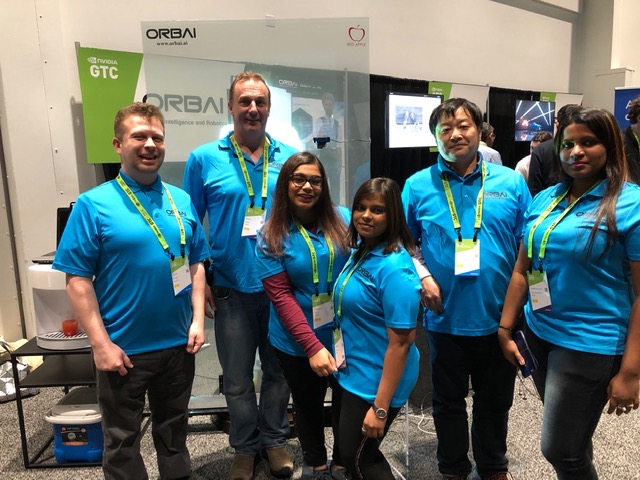
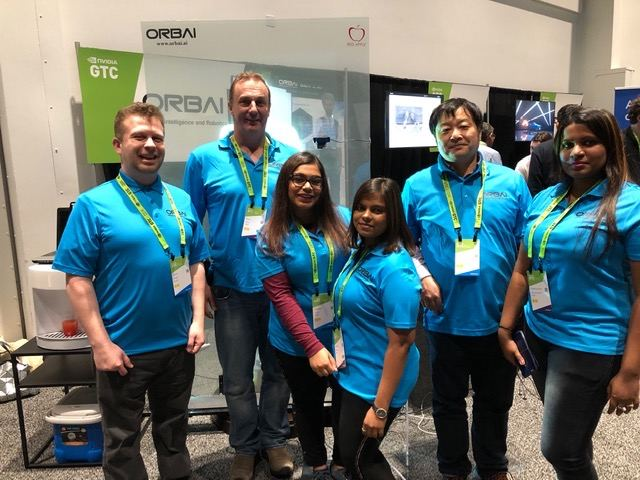
Add files via upload

diff --git a/index.html b/index.html
@@ -7,7 +7,7 @@
 <meta name="description" content="Portfolio of Sindhukumari Parameswaran, Python Developer and AI Engineer.">
 <link rel="preconnect" href="https://fonts.googleapis.com">
 <link rel="preconnect" href="https://fonts.gstatic.com" crossorigin>
-<link href="https://fonts.googleapis.com/css2?family=JetBrains+Mono:wght@400;500;600;700&family=Space+Grotesk:wght@400;500;600;700&family=Inter:wght@300;400;500;600&display=swap" rel="stylesheet">
+<link href="https://fonts.googleapis.com/css2?family=JetBrains+Mono:wght@400;500;600;700&family=Inter:wght@300;400;500;600;700&display=swap" rel="stylesheet">
 <style>
   :root{
     --bg: #ffffff;
@@ -22,13 +22,15 @@
     --line: rgba(11,15,25,0.10);
     --line-strong: rgba(11,15,25,0.18);
     --mono: 'JetBrains Mono', ui-monospace, monospace;
-    --serif: 'Inter', -apple-system, sans-serif;
-    --display: 'Space Grotesk', 'JetBrains Mono', sans-serif;
-    --maxw: 920px;
+    --serif: 'Inter', -apple-system, BlinkMacSystemFont, sans-serif;
+    --display: 'Inter', -apple-system, BlinkMacSystemFont, sans-serif;
+    --maxw: 1440px;
   }
 
   *{box-sizing:border-box;}
   html{scroll-behavior:smooth;}
+  html, body{overflow-x:hidden; max-width:100%;}
+  img, canvas, svg{max-width:100%;}
   body{
     margin:0;
     background:var(--bg);
@@ -266,7 +268,10 @@
     position:relative; display:flex; flex-direction:column;
   }
   .interest-card .ic-canvas-wrap{position:relative; height:150px;}
+  .interest-card .ic-canvas-wrap .ic-photo{position:absolute; inset:0; width:100%; height:100%; object-fit:cover; filter:saturate(0.85) contrast(1.05) brightness(0.75);}
+  .interest-card .ic-canvas-wrap .ic-photo-overlay{position:absolute; inset:0; background:linear-gradient(180deg, rgba(11,15,25,0.15) 0%, rgba(11,15,25,0.65) 100%);}
   .interest-card canvas{position:absolute; inset:0; width:100%; height:100%; display:block;}
+  .interest-card .ic-credit{position:absolute; right:8px; bottom:6px; font-family:var(--mono); font-size:9.5px; color:rgba(255,255,255,0.55); z-index:2;}
   .interest-card .ic-body{padding:18px 20px 22px; position:relative; z-index:1;}
   .interest-card .ic-tag{font-family:var(--mono); font-size:11px; letter-spacing:0.08em; text-transform:uppercase; color:var(--blue-bright); display:block; margin-bottom:6px;}
   .interest-card h3{font-family:var(--display); font-weight:600; font-size:18px; margin:0 0 8px; color:#fff;}
@@ -355,7 +360,7 @@
         <span class="eyebrow">Python Developer — AI Engineer</span>
         <h1>Sindhukumari Parameswaran</h1>
         <p class="hero-sub">I build systems that turn signals into understanding — from spiking neural networks to on-device translation.</p>
-        <div class="status-line"><span class="prompt">&gt;</span>currently building Live Chat Translator — an on-device chat translation overlay</div>
+        <div class="status-line"><span class="prompt">&gt;</span>learning Gen AI, RAG, Agentic AI, MCP</div>
         <div class="cta-row">
           <a href="#work" class="btn btn-primary">See the work</a>
           <a href="#contact" class="btn btn-white">Get in touch</a>
@@ -366,7 +371,7 @@
         <div class="hero-portrait-ring" aria-hidden="true"></div>
         <div class="hero-portrait-sat" aria-hidden="true"></div>
         <div class="hero-portrait">
-          <img src="images/profile_pic.png" alt="Portrait of Sindhukumari Parameswaran">
+          <img src="images/profile-pic.jpg" alt="Portrait of Sindhukumari Parameswaran">
         </div>
       </div>
     </div>
@@ -376,7 +381,6 @@
 <section id="about">
   <div class="wrap">
     <div class="section-head reveal">
-      <span class="eyebrow">01</span>
       <h2>About</h2>
     </div>
     <div class="about-grid reveal">
@@ -385,17 +389,18 @@
         <span class="mg-label">SK</span>
       </div>
       <div class="about-bio">
-        <p>Six-plus years of shipping software — backend APIs, full-stack products, and trained models — across a handful of companies since I graduated in 2015. I currently work as a Python developer and AI engineer, where the job usually means moving between plain Python services and the ML systems sitting behind them.</p>
-        <p>I'm drawn to problems where a signal has to be turned into something a person can act on: a spike pattern into a diagnosis, a sentence into another language, a resume into a match. Most of what I build sits at that translation layer.</p>
+        <p>5+ years of experience across the full software development lifecycle — requirements gathering, design, development, implementation, and maintenance — using Python and Java. Strong hands-on experience with Django and Flask, RESTful APIs, SQL and relational databases (MySQL, Postgres), and AWS (EC2, S3). I've built and maintained CI/CD pipelines end to end, integrating Git to enforce code quality and automate releases.</p>
+        <p>Right now I'm moving deeper into Gen AI, RAG, Agent AI, Agentic AI, and MCP, alongside ML, DL, and data engineering — extending the same AI/ML foundation from NeuroCAD and the other projects below into where the field is heading next.</p>
         <ul class="facts">
           <li>Role <span>Python Developer &amp; AI Engineer, Neurolabs Innovations Pvt Ltd</span></li>
-          <li>Focus <span>Python, ML/AI systems, full-stack development</span></li>
+          <li>Focus <span>Gen AI, RAG, Agentic AI, MCP, ML/DL, Data Engineering</span></li>
           <li>Education <span>B.Tech, Information Technology — Vivekanandha College of Engineering for Women (2011–2015)</span></li>
+          <li>Achievement <span>Traveled to the USA to present NeuroCAD at NVIDIA's GTC Conference</span></li>
         </ul>
       </div>
     </div>
     <div class="workshot reveal">
-      <img src="images/coverpic_laptop.png" alt="Sindhukumari working at her desk">
+      <img src="images/workshot.jpg" alt="Sindhukumari working at her desk">
       <div class="workshot-overlay"></div>
       <span class="workshot-caption">// at the desk, mid-build</span>
     </div>
@@ -406,7 +411,6 @@
   <canvas id="exp-canvas" class="faint-canvas" aria-hidden="true"></canvas>
   <div class="wrap">
     <div class="section-head reveal">
-      <span class="eyebrow">02</span>
       <h2>Experience</h2>
     </div>
     <div class="reveal">
@@ -453,7 +457,6 @@
 <section id="work">
   <div class="wrap">
     <div class="section-head reveal">
-      <span class="eyebrow">03</span>
       <h2>Work</h2>
     </div>
     <p class="reveal" style="color:var(--ink-dim); margin-top:-20px; margin-bottom:34px; max-width:560px;">Every project below is a pulse on the same line — some shipped to production, one still open-source and growing.</p>
@@ -500,7 +503,6 @@
   <canvas id="skills-canvas" class="faint-canvas" aria-hidden="true"></canvas>
   <div class="wrap">
     <div class="section-head reveal">
-      <span class="eyebrow">04</span>
       <h2>Skills
         <svg width="18" height="18" viewBox="0 0 24 24" fill="none" stroke="currentColor" stroke-width="1.6" stroke-linecap="round" stroke-linejoin="round" aria-hidden="true" style="color:var(--blue); margin-left:2px;">
           <rect x="5" y="9" width="14" height="11" rx="2"></rect>
@@ -538,6 +540,19 @@
           <span class="chip">CI/CD</span>
         </div>
       </div>
+      <div>
+        <span class="skill-group-label">Currently Exploring</span>
+        <div class="chips">
+          <span class="chip">Gen AI</span>
+          <span class="chip">RAG</span>
+          <span class="chip">Agent AI</span>
+          <span class="chip">Agentic AI</span>
+          <span class="chip">MCP</span>
+          <span class="chip">ML</span>
+          <span class="chip">DL</span>
+          <span class="chip">Data Engineering</span>
+        </div>
+      </div>
     </div>
   </div>
 </section>
@@ -545,7 +560,6 @@
 <section id="gallery">
   <div class="wrap">
     <div class="section-head reveal">
-      <span class="eyebrow">05</span>
       <h2>NVIDIA GTC Conference — March 2019</h2>
     </div>
   </div>
@@ -564,7 +578,6 @@
 <section id="interests">
   <div class="wrap">
     <div class="section-head reveal">
-      <span class="eyebrow">06</span>
       <h2>Interests &amp; What's Next</h2>
     </div>
     <p class="interests-lead reveal">The throughline in my work is turning a signal into something that acts. Here's where I want to take that next.</p>
@@ -583,6 +596,9 @@
 
       <div class="interest-card">
         <div class="ic-canvas-wrap">
+          <img class="ic-photo" src="https://commons.wikimedia.org/wiki/Special:FilePath/UR16e_robot_arm.png" alt="Collaborative robot arm">
+          <div class="ic-photo-overlay"></div>
+          <span class="ic-credit">Universal Robots · CC BY-SA</span>
           <div class="gear-wrap">
             <svg class="gear gear-a" width="70" height="70" viewBox="0 0 24 24" fill="currentColor">
               <path d="M12 8.5a3.5 3.5 0 100 7 3.5 3.5 0 000-7zm9.4 2.6l-1.9-.3a7.6 7.6 0 00-.6-1.4l1.1-1.6a.6.6 0 00-.1-.8l-1.4-1.4a.6.6 0 00-.8-.1l-1.6 1.1a7.6 7.6 0 00-1.4-.6l-.3-1.9a.6.6 0 00-.6-.5h-2a.6.6 0 00-.6.5l-.3 1.9a7.6 7.6 0 00-1.4.6L7.9 5a.6.6 0 00-.8.1L5.7 6.5a.6.6 0 00-.1.8l1.1 1.6a7.6 7.6 0 00-.6 1.4l-1.9.3a.6.6 0 00-.5.6v2a.6.6 0 00.5.6l1.9.3c.15.5.35 1 .6 1.4l-1.1 1.6a.6.6 0 00.1.8l1.4 1.4a.6.6 0 00.8.1l1.6-1.1c.45.25.9.45 1.4.6l.3 1.9a.6.6 0 00.6.5h2a.6.6 0 00.6-.5l.3-1.9c.5-.15 1-.35 1.4-.6l1.6 1.1a.6.6 0 00.8-.1l1.4-1.4a.6.6 0 00.1-.8l-1.1-1.6c.25-.45.45-.9.6-1.4l1.9-.3a.6.6 0 00.5-.6v-2a.6.6 0 00-.5-.6z"/>
@@ -600,7 +616,7 @@
       </div>
 
       <div class="interest-card">
-        <div class="ic-canvas-wrap"><canvas id="ic-space-canvas"></canvas></div>
+        <div class="ic-canvas-wrap"><img class="ic-photo" src="https://commons.wikimedia.org/wiki/Special:FilePath/NASA_Neutral_Buoyancy_Laboratory_Astronaut_Training.jpg" alt="NASA astronaut training in the Neutral Buoyancy Laboratory"><div class="ic-photo-overlay"></div><span class="ic-credit">NASA · Public Domain</span><canvas id="ic-space-canvas"></canvas></div>
         <div class="ic-body">
           <span class="ic-tag">Space Systems</span>
           <h3>Intelligence without a ground link</h3>
@@ -620,6 +636,9 @@
 
       <div class="interest-card">
         <div class="ic-canvas-wrap">
+          <img class="ic-photo" src="https://commons.wikimedia.org/wiki/Special:FilePath/UR16e_robot_arm.png" alt="Collaborative robot arm">
+          <div class="ic-photo-overlay"></div>
+          <span class="ic-credit">Universal Robots · CC BY-SA</span>
           <div class="gear-wrap">
             <svg class="gear gear-a" width="70" height="70" viewBox="0 0 24 24" fill="currentColor">
               <path d="M12 8.5a3.5 3.5 0 100 7 3.5 3.5 0 000-7zm9.4 2.6l-1.9-.3a7.6 7.6 0 00-.6-1.4l1.1-1.6a.6.6 0 00-.1-.8l-1.4-1.4a.6.6 0 00-.8-.1l-1.6 1.1a7.6 7.6 0 00-1.4-.6l-.3-1.9a.6.6 0 00-.6-.5h-2a.6.6 0 00-.6.5l-.3 1.9a7.6 7.6 0 00-1.4.6L7.9 5a.6.6 0 00-.8.1L5.7 6.5a.6.6 0 00-.1.8l1.1 1.6a7.6 7.6 0 00-.6 1.4l-1.9.3a.6.6 0 00-.5.6v2a.6.6 0 00.5.6l1.9.3c.15.5.35 1 .6 1.4l-1.1 1.6a.6.6 0 00.1.8l1.4 1.4a.6.6 0 00.8.1l1.6-1.1c.45.25.9.45 1.4.6l.3 1.9a.6.6 0 00.6.5h2a.6.6 0 00.6-.5l.3-1.9c.5-.15 1-.35 1.4-.6l1.6 1.1a.6.6 0 00.8-.1l1.4-1.4a.6.6 0 00.1-.8l-1.1-1.6c.25-.45.45-.9.6-1.4l1.9-.3a.6.6 0 00.5-.6v-2a.6.6 0 00-.5-.6z"/>
@@ -637,7 +656,7 @@
       </div>
 
       <div class="interest-card">
-        <div class="ic-canvas-wrap"><canvas id="ic-space-canvas-2"></canvas></div>
+        <div class="ic-canvas-wrap"><img class="ic-photo" src="https://commons.wikimedia.org/wiki/Special:FilePath/NASA_Neutral_Buoyancy_Laboratory_Astronaut_Training.jpg" alt="NASA astronaut training in the Neutral Buoyancy Laboratory"><div class="ic-photo-overlay"></div><span class="ic-credit">NASA · Public Domain</span><canvas id="ic-space-canvas-2"></canvas></div>
         <div class="ic-body">
           <span class="ic-tag">Space Systems</span>
           <h3>Intelligence without a ground link</h3>
@@ -651,7 +670,6 @@
 <section id="contact">
   <div class="wrap">
     <div class="section-head reveal">
-      <span class="eyebrow">07</span>
       <h2>Contact
         <svg width="18" height="18" viewBox="0 0 24 24" fill="none" stroke="currentColor" stroke-width="1.6" stroke-linecap="round" stroke-linejoin="round" aria-hidden="true" style="color:var(--blue); margin-left:2px;">
           <ellipse cx="12" cy="12" rx="10" ry="4.2" transform="rotate(-20 12 12)"></ellipse>
@@ -690,6 +708,9 @@
     let w, h, dpr;
     let nodes = [];
     let pulses = [];
+    const hotColor = opts.hotColor || null;
+    const hotShare = opts.hotShare || 0.16;
+    const glow = !!opts.glow;
 
     function resize(){
       const rect = canvas.parentElement.getBoundingClientRect();
@@ -705,13 +726,17 @@
       nodes = [];
       const count = opts.nodeCount;
       for(let i=0;i<count;i++){
+        const isHot = hotColor && Math.random() < hotShare;
         nodes.push({
           x: Math.random()*w,
           y: Math.random()*h,
           vx: (Math.random()-0.5)*opts.speed,
           vy: (Math.random()-0.5)*opts.speed,
-          r: 1.6 + Math.random()*1.8,
-          glow: 0
+          r: (isHot ? 2.1 : 1.6) + Math.random()*1.8,
+          glow: 0,
+          hot: isHot,
+          phase: Math.random()*Math.PI*2,
+          idleSpeed: 0.5 + Math.random()*0.7
         });
       }
       pulses = [];
@@ -739,6 +764,7 @@
     function draw(ts){
       ctx.clearRect(0,0,w,h);
       const links = nearestLinks();
+      const t = ts/1000;
 
       for(const n of nodes){
         n.x += n.vx; n.y += n.vy;
@@ -747,15 +773,17 @@
         if(n.glow > 0) n.glow -= 0.02;
       }
 
-      ctx.lineWidth = 1;
       const alphaScale = opts.lineAlphaScale || 0.5;
       for(const l of links){
         const a = nodes[l.a], b = nodes[l.b];
         const alpha = (1 - l.dist/opts.linkDist) * alphaScale;
         ctx.strokeStyle = opts.lineColor.replace('ALPHA', alpha.toFixed(3));
+        ctx.lineWidth = glow ? 1.3 : 1;
+        if(glow){ ctx.shadowBlur = 5; ctx.shadowColor = opts.lineColor.replace('ALPHA','0.5'); }
         ctx.beginPath();
         ctx.moveTo(a.x,a.y); ctx.lineTo(b.x,b.y);
         ctx.stroke();
+        if(glow) ctx.shadowBlur = 0;
       }
 
       if(!reduceMotion && ts - lastSpawn > opts.pulseRate){
@@ -769,22 +797,31 @@
         p.t += p.speed;
         const x = a.x + (b.x-a.x)*p.t;
         const y = a.y + (b.y-a.y)*p.t;
+        if(glow){ ctx.shadowBlur = 9; ctx.shadowColor = opts.pulseColor; }
         ctx.beginPath();
-        ctx.arc(x,y,2.2,0,Math.PI*2);
+        ctx.arc(x,y,2.4,0,Math.PI*2);
         ctx.fillStyle = opts.pulseColor;
         ctx.fill();
+        if(glow) ctx.shadowBlur = 0;
         if(p.t >= 1){ b.glow = 1; }
       });
       pulses = pulses.filter(p=>p.t < 1);
 
       for(const n of nodes){
-        const r = n.r + n.glow*2.2;
+        const idlePulse = n.hot ? (0.55 + 0.45*Math.sin(t*n.idleSpeed + n.phase)) : 0;
+        const r = n.r + n.glow*2.2 + (n.hot ? idlePulse*1.4 : 0);
+        const color = n.glow > 0 ? opts.pulseColor : (n.hot ? hotColor : opts.nodeColor);
+        if(glow){
+          ctx.shadowBlur = n.hot ? 12+idlePulse*8 : 4;
+          ctx.shadowColor = color;
+        }
         ctx.beginPath();
         ctx.arc(n.x,n.y,r,0,Math.PI*2);
-        ctx.fillStyle = n.glow > 0 ? opts.pulseColor : opts.nodeColor;
-        ctx.globalAlpha = n.glow > 0 ? 0.9 : 0.85;
+        ctx.fillStyle = color;
+        ctx.globalAlpha = n.glow > 0 ? 0.95 : (n.hot ? 0.75+idlePulse*0.25 : 0.85);
         ctx.fill();
         ctx.globalAlpha = 1;
+        if(glow) ctx.shadowBlur = 0;
       }
 
       if(!reduceMotion){
@@ -833,48 +870,48 @@
   initStars('stars-canvas', 90);
 
   initNetwork('neural-canvas', {
-    nodeCount: 70, linkDist: 140, speed: 0.15,
-    nodeColor: 'rgba(120,145,220,0.9)', lineColor: 'rgba(60,95,200,ALPHA)',
-    pulseColor: '#ffffff', pulseRate: 550
+    nodeCount: 70, linkDist: 140, speed: 0.15, glow: true,
+    nodeColor: 'rgba(70,220,140,0.9)', lineColor: 'rgba(70,130,255,ALPHA)',
+    hotColor: '#ff3b3b', hotShare: 0.18,
+    pulseColor: '#ff3b3b', pulseRate: 550
   });
 
   initNetwork('mini-canvas', {
-    nodeCount: 22, linkDist: 90, speed: 0.12,
-    nodeColor: 'rgba(120,145,220,0.9)', lineColor: 'rgba(60,95,200,ALPHA)',
-    pulseColor: '#ffffff', pulseRate: 900
+    nodeCount: 22, linkDist: 90, speed: 0.12, glow: true,
+    nodeColor: 'rgba(70,220,140,0.9)', lineColor: 'rgba(70,130,255,ALPHA)',
+    hotColor: '#ff3b3b', hotShare: 0.18,
+    pulseColor: '#ff3b3b', pulseRate: 900
   });
 
   initNetwork('callout-canvas', {
-    nodeCount: 26, linkDist: 100, speed: 0.1,
-    nodeColor: 'rgba(120,145,220,0.85)', lineColor: 'rgba(60,95,200,ALPHA)',
-    pulseColor: '#ffffff', pulseRate: 700
+    nodeCount: 26, linkDist: 100, speed: 0.1, glow: true,
+    nodeColor: 'rgba(70,220,140,0.85)', lineColor: 'rgba(70,130,255,ALPHA)',
+    hotColor: '#ff3b3b', hotShare: 0.16,
+    pulseColor: '#ff3b3b', pulseRate: 700
   });
 
   // Faint light-mode neuron texture for white sections
   initNetwork('exp-canvas', {
     nodeCount: 34, linkDist: 130, speed: 0.06, lineAlphaScale: 0.16,
-    nodeColor: 'rgba(21,71,199,0.25)', lineColor: 'rgba(21,71,199,ALPHA)',
-    pulseColor: '#1547c7', pulseRate: 1400
+    nodeColor: 'rgba(22,163,74,0.3)', lineColor: 'rgba(21,71,199,ALPHA)',
+    hotColor: '#ef4444', hotShare: 0.14,
+    pulseColor: '#ef4444', pulseRate: 1400
   });
   initNetwork('skills-canvas', {
     nodeCount: 30, linkDist: 130, speed: 0.06, lineAlphaScale: 0.16,
-    nodeColor: 'rgba(21,71,199,0.25)', lineColor: 'rgba(21,71,199,ALPHA)',
-    pulseColor: '#1547c7', pulseRate: 1400
+    nodeColor: 'rgba(22,163,74,0.3)', lineColor: 'rgba(21,71,199,ALPHA)',
+    hotColor: '#ef4444', hotShare: 0.14,
+    pulseColor: '#ef4444', pulseRate: 1400
   });
 
-  // Small neuron card + space/orbit card inside Interests
+  // Small neuron card inside Interests
   initNetwork('ic-neuro-canvas', {
-    nodeCount: 24, linkDist: 70, speed: 0.14,
-    nodeColor: 'rgba(120,145,220,0.9)', lineColor: 'rgba(60,95,200,ALPHA)',
-    pulseColor: '#ffffff', pulseRate: 500
+    nodeCount: 24, linkDist: 70, speed: 0.14, glow: true,
+    nodeColor: 'rgba(70,220,140,0.9)', lineColor: 'rgba(70,130,255,ALPHA)',
+    hotColor: '#ff3b3b', hotShare: 0.2,
+    pulseColor: '#ff3b3b', pulseRate: 500
   });
   initStars('ic-space-canvas', 55);
-  initNetwork('ic-neuro-canvas-2', {
-    nodeCount: 24, linkDist: 70, speed: 0.14,
-    nodeColor: 'rgba(120,145,220,0.9)', lineColor: 'rgba(60,95,200,ALPHA)',
-    pulseColor: '#ffffff', pulseRate: 500
-  });
-  initStars('ic-space-canvas-2', 55);
 
   const io = new IntersectionObserver((entries)=>{
     entries.forEach(e=>{
